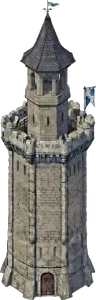
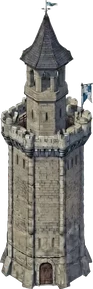
v0.98.35 : les 3 tours de gloire à la même échelle
Les images sont découpées avec une seule échelle pour les 3, et leur largeur à l'écran
(size) est proportionnelle à leur largeur en pixels.

Claude-Session: https://claude.ai/code/session_01ThAJAhzQCU9J3QinbMEDkL

diff --git a/js/config.js b/js/config.js
@@ -655,9 +655,9 @@ const MINES = {
   //   petite fortification : MINE_FORT.GARRISON soldats de garnison, comme une mine fortifiée (pas besoin de la fortifier)
   glory: { name: tr('Tour de gloire', 'Glory tower'), short: tr('de la gloire pour la victoire', 'glory for the victory'), icon: '🌿', terrain: 'hills',
     rate: [0, 1, 1.6, 2.2], cost: 500, levels: [null,
-      { name: tr('Tour de gloire', 'Glory tower'), img: 'img/gloire1.webp', size: 3.0 },
-      { name: tr('Grande tour de gloire', 'Great glory tower'), img: 'img/gloire2.webp', size: 2.2, upgradeCost: 1000 },
-      { name: tr('Citadelle de gloire', 'Glory citadel'), img: 'img/gloire3.webp', size: 3.8, upgradeCost: 2500 }] }, // (size : la largeur de l'image, en cases ; les tours sont hautes)
+      { name: tr('Tour de gloire', 'Glory tower'), img: 'img/gloire1.webp', size: 2.54 },
+      { name: tr('Grande tour de gloire', 'Great glory tower'), img: 'img/gloire2.webp', size: 2.21, upgradeCost: 1000 },
+      { name: tr('Citadelle de gloire', 'Glory citadel'), img: 'img/gloire3.webp', size: 3.8, upgradeCost: 2500 }] }, // (size : la largeur de l'image, en cases, proportionnelle à sa largeur en pixels : les 3 tours gardent l'échelle du dessin)
 };
 const MINE_KINDS = ['iron', 'gold', 'stone', 'diamond', 'glory'];
 

diff --git a/README.md b/README.md
@@ -1302,6 +1302,7 @@ ce sont de grandes taches (environ 15 % des plaines et forêts) ; sur la carte *
 
 ## 🆕 Nouveautés
 
+- **v0.98.35** : 🌿 les 3 dessins de la tour de gloire gardent maintenant la **même échelle** que sur le dessin d'origine (la tour de bois plus petite, la tour de pierre et la citadelle à la même taille)
 - **v0.98.34** : 🌿 la **tour de gloire** remplace la mine de gloire : une construction spéciale des cartes de gloire (bouton à elle), à 3 niveaux (💰 500, 1 000, 2 500 ; une tour de bois, de pierre, puis une citadelle), avec au niveau 3 une petite fortification de 25 soldats ; elle donne 1, 1,6 puis 2,2 de gloire par seconde · « **+X 🌿** » s'affiche toutes les 5 s au-dessus de chaque tour · L'Octogone de la Gloire : 2 fois moins de gloire par tour · nouvelle carte de gloire **Le Trône des Trois** (3 joueurs) : une île en triangle, un massif à 3 cols qui garde le Trône, et sur chaque frontière une rivière avec deux îles de gloire
 - **v0.98.33** : ⏱ plus de **gels** réguliers de la partie (jusqu'à 4 s, surtout sur L'Octogone de la Gloire) : les bots vérifiaient la règle « un mur ne ferme jamais un passage » pour chacun des 160 murs qu'ils envisagent ; ils ne la vérifient plus que pour leurs meilleurs, et la vérification est bien plus rapide
 - **v0.98.32** : 💀 nouvelle difficulté **Extrême** (une petite tête de mort à côté) : des bots plus rapides, plus agressifs, avec +80 % d'or, un recrutement 60 % plus rapide, une armée maximum 30 % plus grande et des soldats 25 % plus forts. Très dur !
